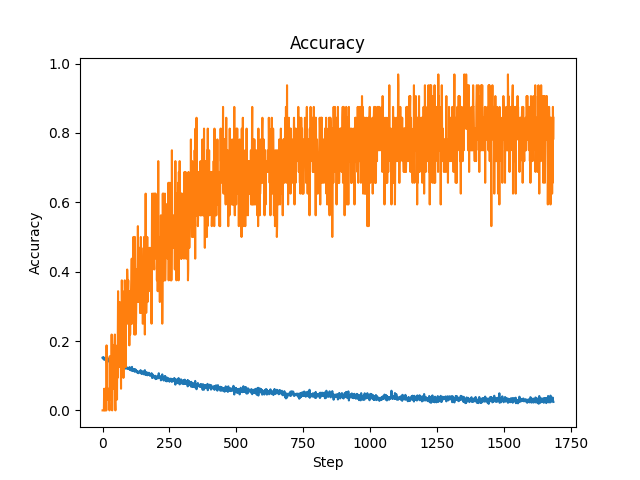
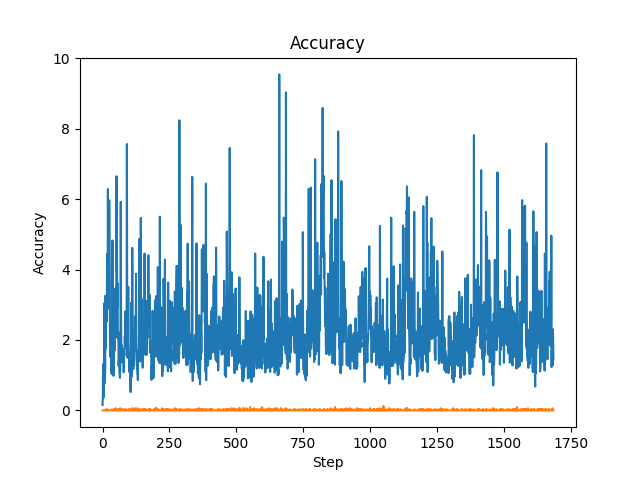
solved gradient vanish problem

diff --git a/src/model/CLIP_VPT/VisionPromptCLIP.py b/src/model/CLIP_VPT/VisionPromptCLIP.py
@@ -1,9 +1,13 @@
 """
-Edited upon code from https://github.com/kmnp/vpt
+Borrowed code from https://github.com/kmnp/vpt
 """
+import math
 import torch
 import torch.nn as nn
 from torch.nn.modules.utils import _pair
+from functools import reduce
+from operator import mul
+from src.model.CLIP_VPT.Embeddings import CLIPInputEmbedding
 
 
 class VisionPromptCLIP(nn.Module):
@@ -11,6 +15,7 @@ class VisionPromptCLIP(nn.Module):
         self,
         backbone: nn.Module,
         config,
+        dataset_config,
         prompt_config,
         prompts,
         img_size=224,
@@ -40,16 +45,70 @@ class VisionPromptCLIP(nn.Module):
         self.ViT = self.model.visual
 
         # set prompt configs
-        self.num_tokens = self.prompt_config.NUM_TOKENS
+        self.num_tokens = dataset_config.MODEL.PROMPT.NUM_TOKENS
         self.prompt_dropout = nn.Dropout(0.2)
-
-        # output layer
-        self.head = nn.Linear(self.ViT.output_dim, num_classes)
 
         print("Setting up prompt...")
         print("Project: ", self.prompt_config.PROJECT)
 
-   
+        # if project the prompt embeddings
+        if self.prompt_config.PROJECT > -1:
+            # only for prepend / add
+            prompt_dim = self.prompt_config.PROJECT
+            self.prompt_proj = nn.Linear(prompt_dim, config.hidden_size)
+            nn.init.kaiming_normal_(self.prompt_proj.weight, a=0, mode="fan_out")
+        else:
+            prompt_dim = config.hidden_size
+            self.prompt_proj = nn.Identity()
+
+        # initiate prompt:
+        if self.prompt_config.INITIATION == "random":
+            val = math.sqrt(
+                6.0 / float(3 * reduce(mul, self.patch_size, 1) + prompt_dim)
+            )  # noqa
+
+            self.prompt_embeddings = nn.Parameter(
+                torch.zeros(1, self.num_tokens, prompt_dim)
+            )
+
+            # xavier_uniform initialization
+            nn.init.uniform_(self.prompt_embeddings.data, -val, val)
+
+            if self.prompt_config.DEEP:  # noqa
+                total_d_layer = config.transformer["num_layers"] - 1
+                self.deep_prompt_embeddings = nn.Parameter(
+                    torch.zeros(total_d_layer, self.num_tokens, prompt_dim)
+                )
+                # xavier_uniform initialization
+                nn.init.uniform_(self.deep_prompt_embeddings.data, -val, val)
+
+        # set embedding layer
+        self.embeddings = CLIPInputEmbedding(ViT=self.ViT)
+        # output layer
+        self.head = nn.Linear(self.ViT.output_dim, num_classes)
+
+    def incorporate_prompt(self, x: torch.Tensor) -> torch.Tensor:
+        batch_size = x.shape[0]
+        x = self.embeddings(x)  # (batch_size, num_patches**2 + 1, hidden_dim)
+
+        self.prompt_embed_multi_dim = self.prompt_embeddings.expand(batch_size, -1, -1)
+
+        # add learnable context prompt of shape (1, num_tokens, hidden_dim)
+        # (batch_size, 1 + num_tokens + num_patches**2, hidden_dim)
+        x = torch.cat(
+            (
+                x[:, :1, :],
+                self.prompt_dropout(self.prompt_proj(self.prompt_embed_multi_dim)),
+                x[:, 1:, :],
+            ),
+            dim=1,
+        )
+
+        # reshape to (1 + num_tokens + num_patches**2, batch_size, hidden_dim) for matmul
+        x = x.permute(1, 0, 2)
+
+        return x
+
     def forward(self, x: torch.Tensor) -> torch.Tensor:
         """
         Forward pass of Vision Prompt CLIP
@@ -64,6 +123,22 @@ class VisionPromptCLIP(nn.Module):
         logits : torch.Tensor
             Output logits tensor
         """
-        # retrive image features
-        img_features = self.ViT(x)
-        return self.head(img_features)
+        # consturct prompt embedding
+        x = self.incorporate_prompt(x)
+
+        # feed to transformer
+        x = self.ViT.transformer(x)
+
+        # reformate to (batch_size, 1 + num_tokens + num_patches**2, hidden_dim)
+        x = x.permute(1, 0, 2)
+
+        # take the first token + extra token
+        x = x[:, 0, :]
+        print("x shape: ", x.shape)
+
+        x = self.ViT.ln_post(x)
+
+        if self.ViT.proj is not None:
+            x = x @ self.ViT.proj
+        print("x shape: ", x.shape)
+        return self.head(x)

diff --git a/src/model/CLIP_VPT/Embeddings.py b/src/model/CLIP_VPT/Embeddings.py
@@ -1,0 +1,71 @@
+import torch
+from torch import nn
+
+
+class CLIPInputEmbedding(nn.Module):
+    """
+    CLIP Input Embedding Module
+    """
+
+    def __init__(self, ViT) -> None:
+        """
+        Constructor method
+
+        Parameters
+        ----------
+
+        """
+        super().__init__()
+
+        # define embedding layers
+        self.ViT = ViT
+        self.patch_embedding = (
+            self.ViT.conv1
+        )  # nn.Conv2d(3, self.hidden_dim, self.patch_size, self.patch_size)
+        self.ln_pre = self.ViT.ln_pre
+        self.positional_embedding = self.ViT.positional_embedding
+        self.class_embedding = self.ViT.class_embedding
+
+    def forward(self, x: torch.Tensor):
+        """
+        Returns pre_constructed CLIP input embedding to be added to the prompt embedding
+        """
+
+        # extract patches
+        x = self.patch_embedding(
+            x
+        )  # (batch_size, hidden_dim, num_patches, num_patches)
+
+        # debug print
+        # print("Patch Embedding: ", x.shape)
+
+        # flatten patches to let num_patches**2 be the sequence length
+        # now the sequence length is num_patches**2 and the hidden dimension is hidden_dim
+        x = x.reshape(
+            x.shape[0], x.shape[1], -1
+        )  # (batch_size, hidden_dim, num_patches**2)
+        x = x.permute(0, 2, 1)  # (batch_size, num_patches**2, hidden_dim)
+
+        # debug print
+        # print("Patch Embedding: ", x.shape)
+
+        # add cls token
+        x = torch.cat(
+            [
+                self.class_embedding.to(x.dtype)
+                + torch.zeros(
+                    x.shape[0], 1, x.shape[-1], dtype=x.dtype, device=x.device
+                ),
+                x,
+            ],
+            dim=1,
+        )  # shape = [*, grid ** 2 + 1, width]
+
+        # debug print
+        # print("Patch Embedding: ", x.shape)
+
+        # add positional embedding
+        x = x + self.positional_embedding.to(x.dtype)
+
+        # layer norm
+        return self.ln_pre(x)

diff --git a/src/model/CLIP/VanillaCLIP.py b/src/model/CLIP/VanillaCLIP.py
@@ -1,0 +1,68 @@
+"""
+Edited upon code from https://github.com/kmnp/vpt
+"""
+import torch
+import torch.nn as nn
+from torch.nn.modules.utils import _pair
+
+
+class VanillaCLIP(nn.Module):
+    def __init__(
+        self,
+        backbone: nn.Module,
+        config,
+        prompt_config,
+        prompts,
+        img_size=224,
+        num_classes=5,
+    ):
+        super().__init__()  # python3 syntax
+
+        print("Setting up prompt configs...")
+        assert prompt_config.LOCATION == "prepend"
+        assert prompt_config.INITIATION == "random"
+        assert prompt_config.NUM_DEEP_LAYERS is None
+        assert not prompt_config.DEEP_SHARED
+
+        print("Setting up CLIP model...")
+        # get configs
+        self.vit_config = config
+        self.prompt_config = prompt_config
+        self.prompts = prompts
+
+        # set vit configs
+        self.model = backbone  # temporary fix, need to be more general
+        self.device = torch.device("cuda" if torch.cuda.is_available() else "cpu")
+        # convert to tuple if not, e.g. 224 -> (224, 224)
+        self.img_size = _pair(img_size)
+        # tuple of patch size, e.g. (16, 16)
+        self.patch_size = self.vit_config.patches.size
+        self.ViT = self.model.visual
+
+        # set prompt configs
+        self.num_tokens = self.prompt_config.NUM_TOKENS
+        self.prompt_dropout = nn.Dropout(0.2)
+
+        # output layer
+        self.head = nn.Linear(self.ViT.output_dim, num_classes)
+
+        print("Setting up prompt...")
+        print("Project: ", self.prompt_config.PROJECT)
+
+    def forward(self, x: torch.Tensor) -> torch.Tensor:
+        """
+        Forward pass of Vision Prompt CLIP
+
+        Parameters
+        ----------
+        x : torch.Tensor
+            Input image tensor
+
+        Returns
+        -------
+        logits : torch.Tensor
+            Output logits tensor
+        """
+        # retrive image features
+        img_features = self.ViT(x)
+        return self.head(img_features)

diff --git a/src/engine/engines.py b/src/engine/engines.py
@@ -21,11 +21,17 @@ class Engine:
 
         # setup hyperparameters
         ## setup optimizer
-        self.prompt_parameters = model.head.parameters()
-        self.optimizer = torch.optim.AdamW(
+        self.prompt_parameters = (
+            list(model.head.parameters())
+            + list(model.prompt_dropout.parameters())
+            + list(model.prompt_proj.parameters())
+        )
+
+        self.optimizer = torch.optim.SGD(
             params=self.prompt_parameters,
             lr=configs.SOLVER.BASE_LR,
             weight_decay=configs.SOLVER.WEIGHT_DECAY,
+            momentum=configs.SOLVER.MOMENTUM,
         )
 
         ## setup loss function
@@ -63,6 +69,7 @@ class Engine:
                 with autocast():
                     # calculate logits
                     logits = self.model(img.to(self.device))
+                    print(logits.shape)
                     assert logits.dtype == torch.float16
 
                     # calculate loss
@@ -107,7 +114,9 @@ class Engine:
             os.makedirs("./src/logs")
 
         if not os.path.exists(
-            "./src/logs/{}/{}/epochs{}/".format(self.dataset_name, self.model_name, self.max_epochs)
+            "./src/logs/{}/{}/epochs{}/".format(
+                self.dataset_name, self.model_name, self.max_epochs
+            )
         ):
             os.makedirs(
                 "./src/logs/{}/{}/epochs{}/".format(

diff --git a/src/configs/config.py b/src/configs/config.py
@@ -102,7 +102,7 @@ _C.SOLVER.BIAS_MULTIPLIER = 1.              # for prompt + bias
 
 _C.SOLVER.WARMUP_EPOCH = 5
 _C.SOLVER.TOTAL_EPOCH = 30
-_C.SOLVER.LOG_EVERY_N = 1000
+_C.SOLVER.LOG_EVERY_N = 100
 
 
 _C.SOLVER.DBG_TRAINABLE = False # if True, will print the name of trainable params

diff --git a/train.py b/train.py
@@ -68,6 +68,7 @@ def main():
     model = VisionPromptCLIP(
         backbone=backbone,
         config=config,
+        dataset_config=dataset_config,
         prompt_config=prompt_config,
         img_size=img_size,
         num_classes=num_classes,
